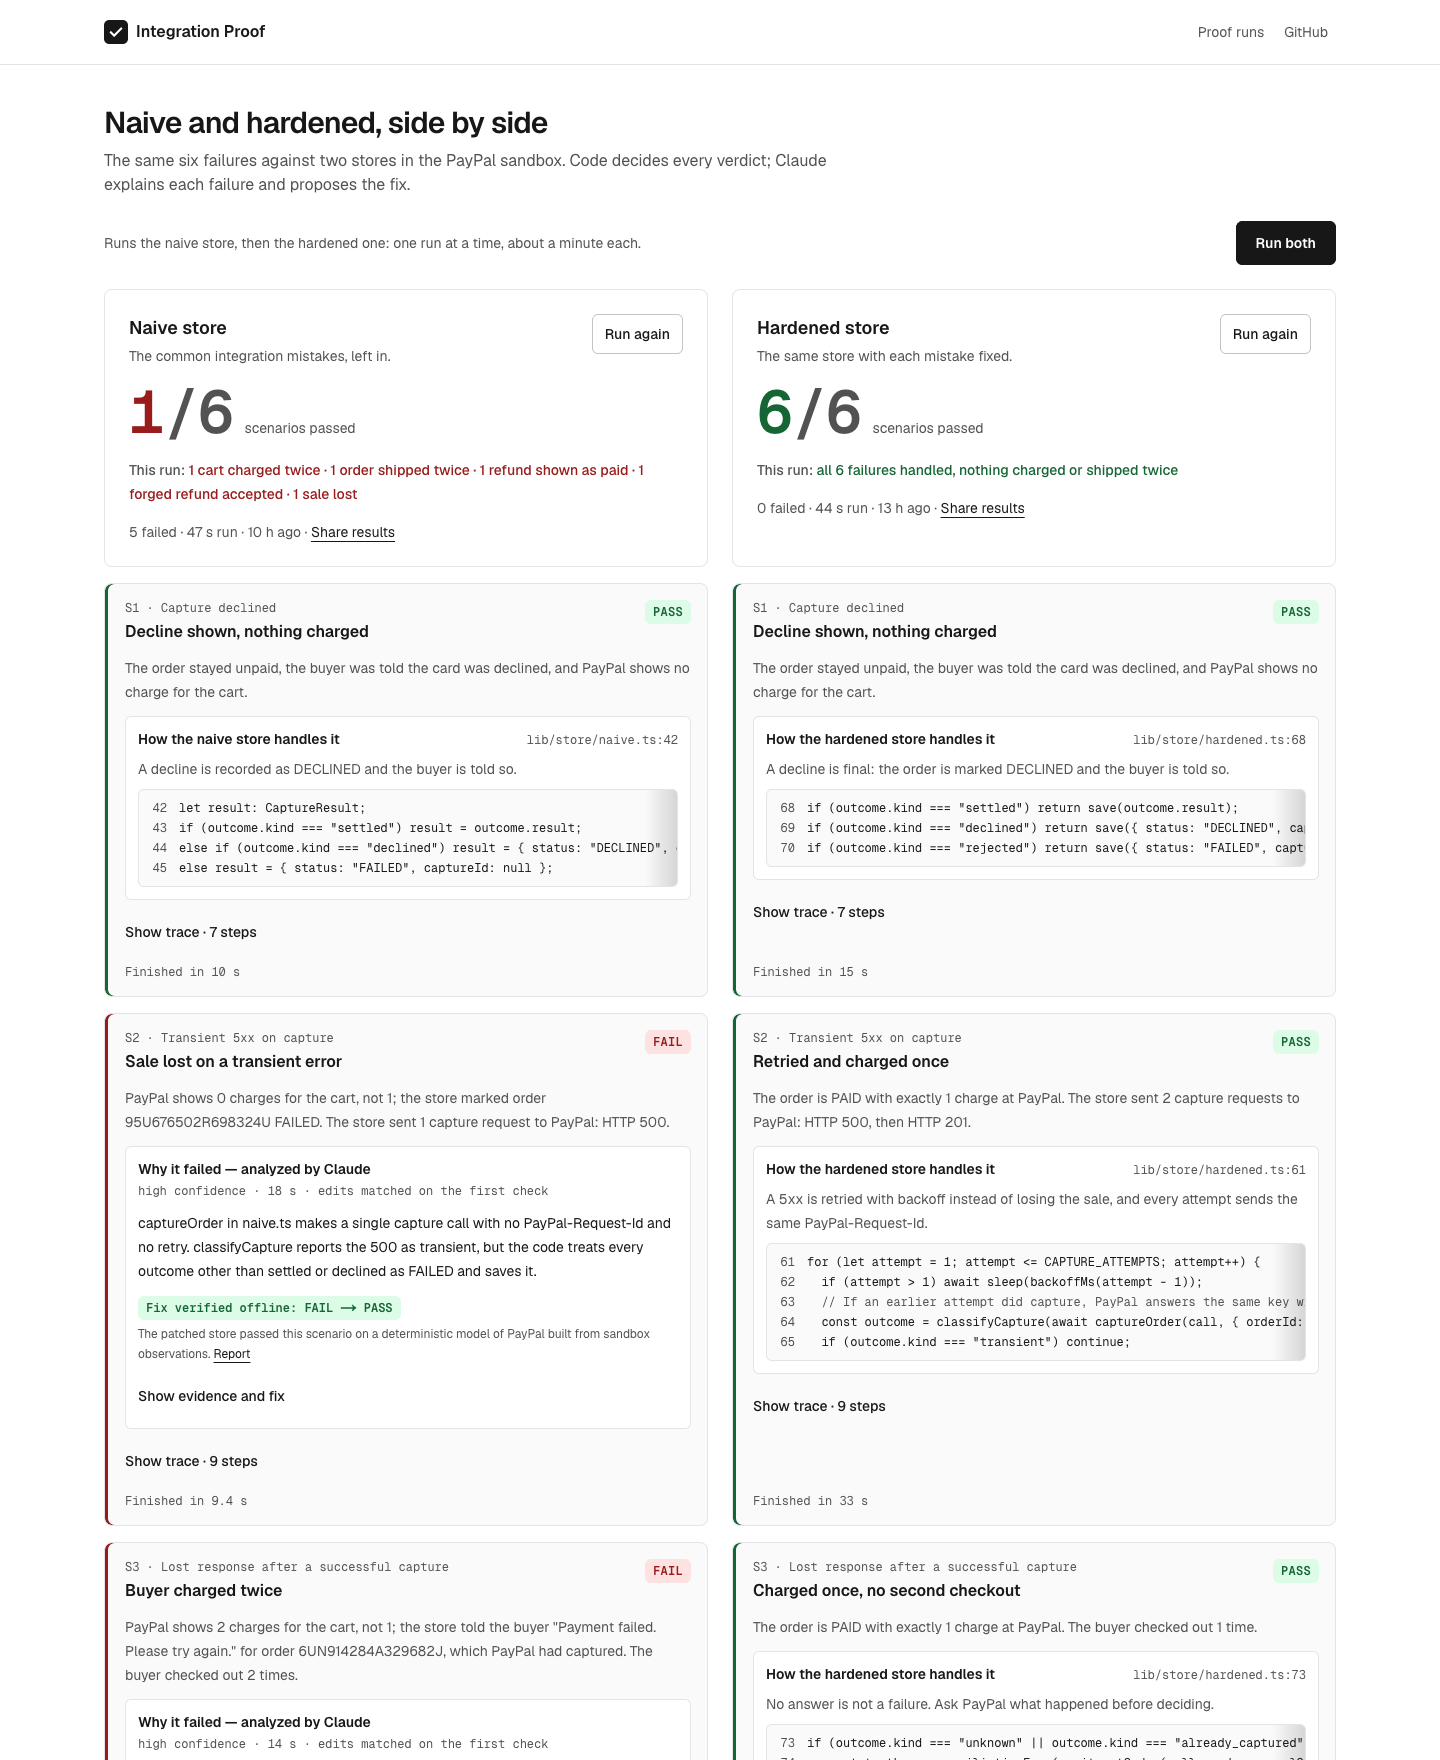
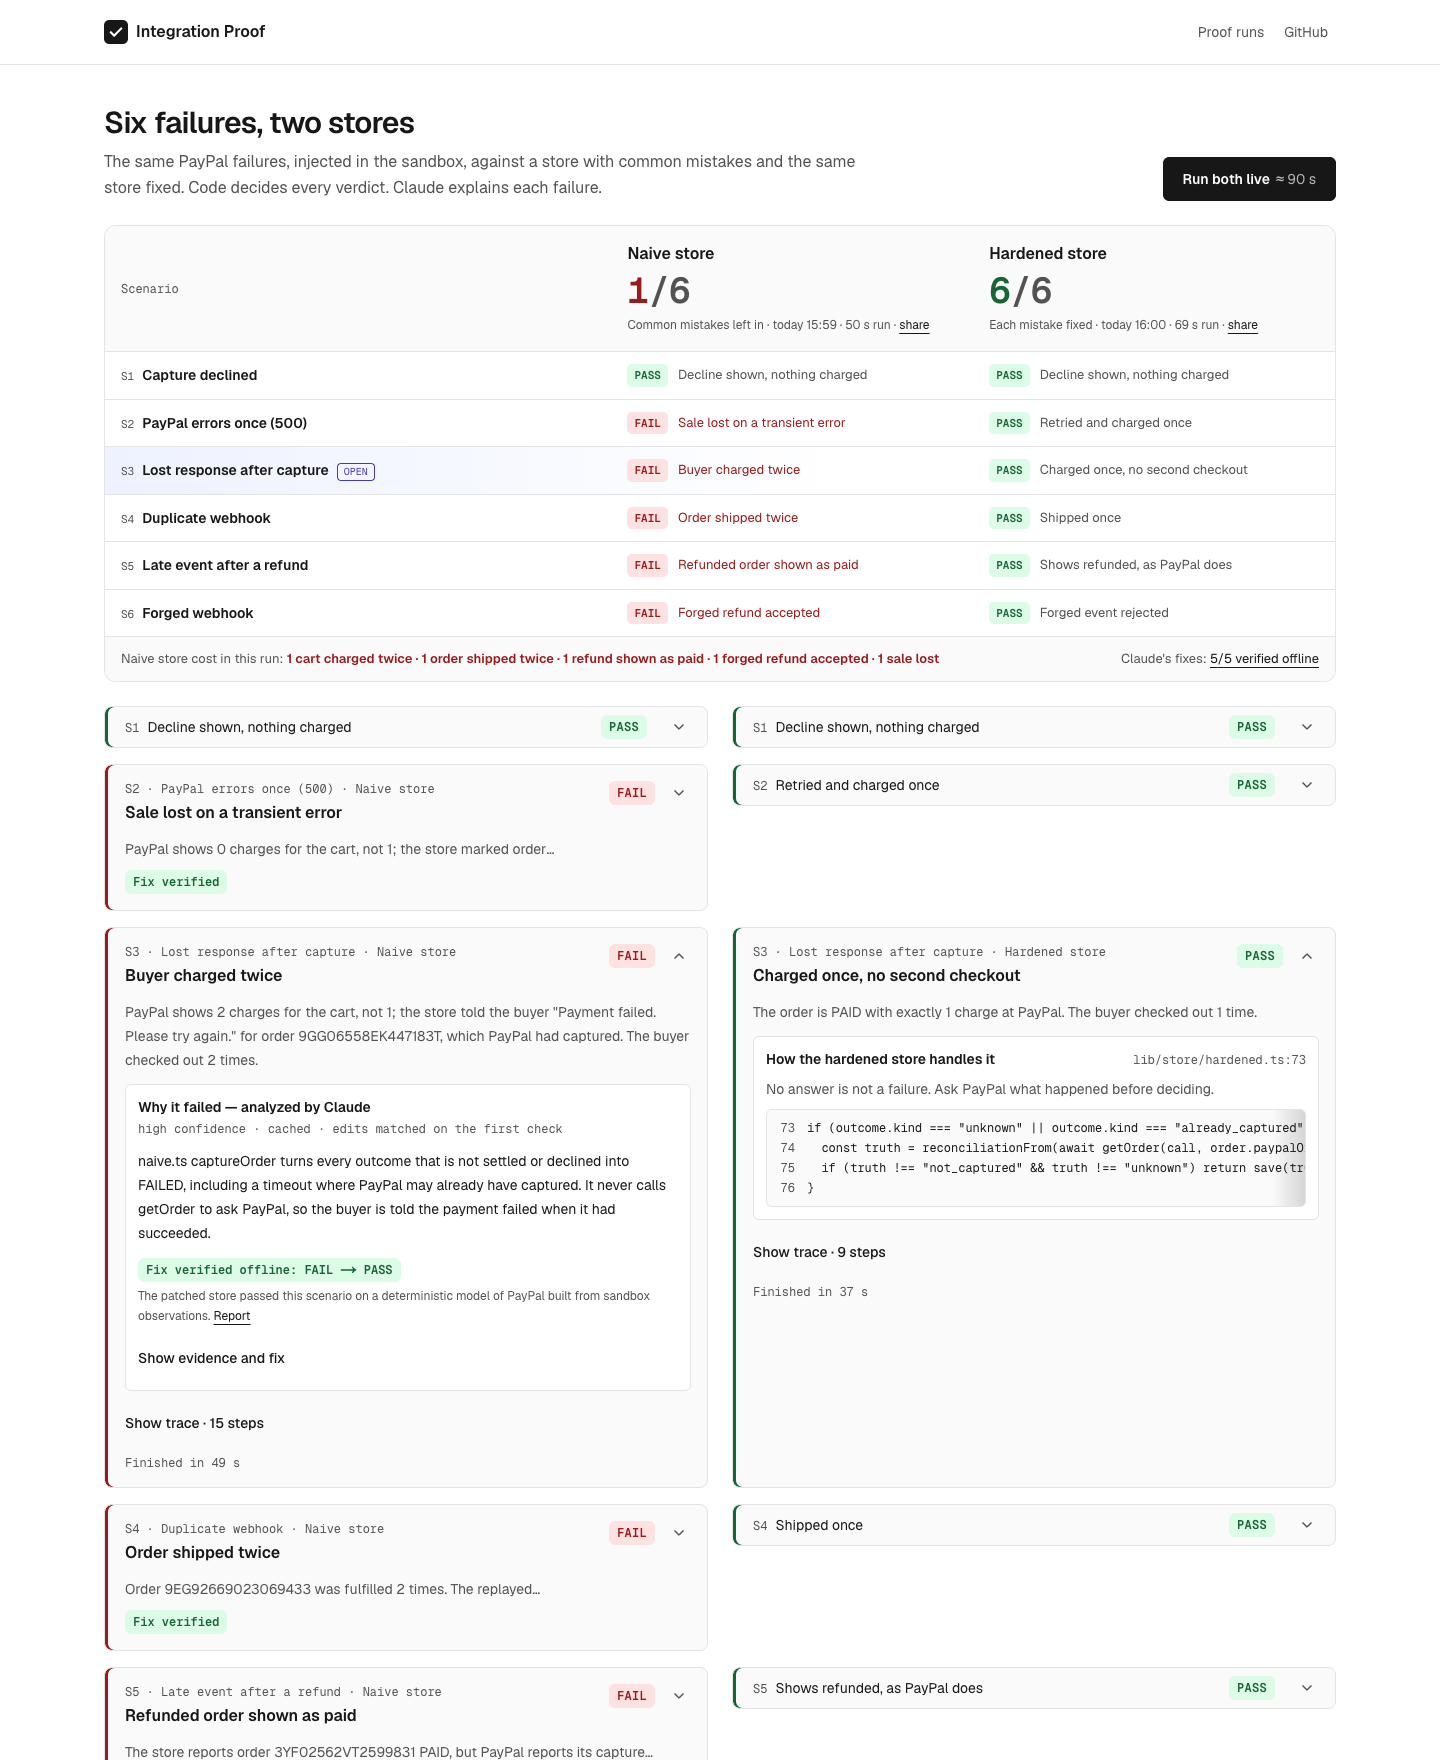
docs: screenshots of the verdict matrix, a live run and the trace

diff --git a/CLAUDE.md b/CLAUDE.md
@@ -20,7 +20,7 @@ app/
   (marketing)/page.tsx                                 landing
   proof/page.tsx                                       naive and hardened side by side; Run both
   proof/[runId]/page.tsx                               shareable results of one run
-  _components/                                         result views: scenario cards, Claude analysis, AG Grid trace
+  _components/                                         result views: verdict matrix, scenario cards, Claude analysis, AG Grid trace
   icon.svg, opengraph-image.tsx                        favicon and link preview
   proof/[runId]/[scenarioId]/page.tsx                  report for one scenario
   store/[mode]/page.tsx                                reference store, mode = "naive" | "hardened" (both live)
